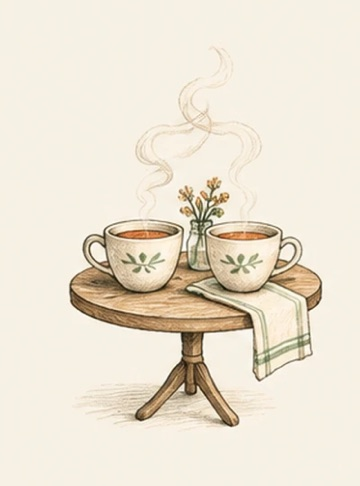
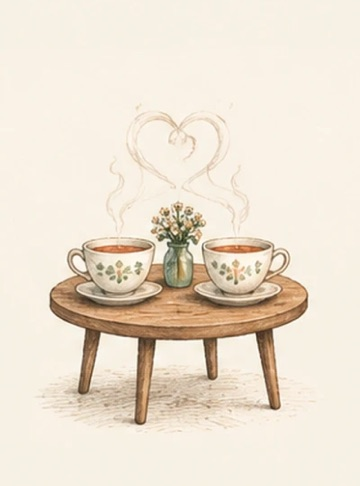
Новый лист сфер, картинка на экране итога, скрытые кнопки не показываются

diff --git a/psychologist.html b/psychologist.html
@@ -15,7 +15,7 @@
 <link rel="icon" href="favicon.svg" type="image/svg+xml">
 <link rel="preload" href="fonts/golos-text-cyrillic-wght-normal.woff2" as="font" type="font/woff2" crossorigin>
 <link rel="preload" href="fonts/cormorant-garamond-cyrillic-wght-normal.woff2" as="font" type="font/woff2" crossorigin>
-<link rel="stylesheet" href="css/style.css">
+<link rel="stylesheet" href="css/style.css?v=2">
 </head>
 <body>
 <div class="blobs" aria-hidden="true"></div>
@@ -44,8 +44,8 @@
     <p>Ответы хранятся только в браузере клиента и никуда не отправляются сами. В ссылке-результате ответы записаны в самом адресе: кто получил ссылку, тот их видит.</p>
   </section>
 </main>
-<script src="js/config.js"></script>
-<script src="js/app.js"></script>
+<script src="js/config.js?v=2"></script>
+<script src="js/app.js?v=2"></script>
 <script>
   /* роза-пример для объяснения */
   S=blank();S.ratings=exampleRatings();S.chosen=[];S.prev={friends:{act:4,skip:false},body:{act:2,skip:false}};VIEW=true;

diff --git a/index.html b/index.html
@@ -15,7 +15,7 @@
 <link rel="icon" href="favicon.svg" type="image/svg+xml">
 <link rel="preload" href="fonts/golos-text-cyrillic-wght-normal.woff2" as="font" type="font/woff2" crossorigin>
 <link rel="preload" href="fonts/cormorant-garamond-cyrillic-wght-normal.woff2" as="font" type="font/woff2" crossorigin>
-<link rel="stylesheet" href="css/style.css">
+<link rel="stylesheet" href="css/style.css?v=2">
 </head>
 <body>
 <div class="blobs" aria-hidden="true"></div>
@@ -23,9 +23,9 @@
 <div class="nav" id="nav" hidden><div class="in"><button class="btn ghost" id="back">Назад</button><span class="small muted" id="navinfo" aria-live="polite"></span><button class="btn" id="next">Дальше</button></div></div>
 <div class="toast" id="toast" role="status" hidden></div>
 <script src="js/vendor/lz-string.min.js"></script>
-<script src="js/config.js"></script>
-<script src="js/app.js"></script>
-<script src="js/share.js"></script>
-<script src="js/png.js"></script>
+<script src="js/config.js?v=2"></script>
+<script src="js/app.js?v=2"></script>
+<script src="js/share.js?v=2"></script>
+<script src="js/png.js?v=2"></script>
 </body>
 </html>

diff --git a/js/app.js b/js/app.js
@@ -254,7 +254,7 @@ function vResult(){
   </div>`;
   return `<div class="view stack" style="gap:18px">
   ${S.example?`<div class="banner"><span><b>Это пример заполнения.</b> Так выглядит итог.</span><button class="btn" data-act="own">Начать своё</button></div>`:''}
-  ${hero(true)}
+  ${IMG.result?`<div class="hero art"><img class="soft-edges" src="${IMG.result}" alt="" width="2000" height="1333" loading="lazy"></div>`:hero(true)}
   <div class="stack"><span class="eyebrow">Итог · ${ds}</span><h2>Ваш компас</h2>
   <p class="muted">Это не оценка и не диагноз, а карта на сегодня. Через неделю можно отметить сферы заново и посмотреть, что изменилось.</p></div>
   <div class="card">${rose({highlight:true})}</div>

diff --git a/js/config.js b/js/config.js
@@ -1,6 +1,7 @@
 /* Иллюстрации из папки img/. Пустая строка — используется встроенная векторная графика. */
 window.KOMPAS_IMAGES = {
   hero: 'img/hero.webp',
+  result: 'img/desk.webp',
   spheres: {
     family:'img/spheres/family.jpg', couple:'img/spheres/couple.jpg', kids:'img/spheres/kids.jpg',
     friends:'img/spheres/friends.jpg', work:'img/spheres/work.jpg', growth:'img/spheres/growth.jpg',

diff --git a/css/style.css b/css/style.css
@@ -31,6 +31,7 @@
   --blob1:#5A3B2E; --blob2:#284036; --danger:#F08A76; --shadow:none; --grain:.10; color-scheme:dark}
 
 *{box-sizing:border-box}
+[hidden]{display:none!important}
 html{-webkit-text-size-adjust:100%}
 body{background:var(--paper);color:var(--ink);font:16px/1.55 var(--f-body);margin:0;min-height:100vh;overflow-x:hidden;
   padding-left:max(18px,env(safe-area-inset-left,0px));padding-right:max(18px,env(safe-area-inset-right,0px))}
